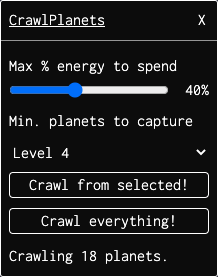
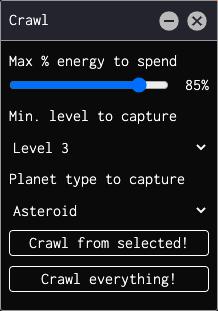
feat: Add planet types to CrawlPlanets

diff --git a/content/productivity/crawl-planets/plugin.js b/content/productivity/crawl-planets/plugin.js
@@ -1,9 +1,22 @@
-import {
-  move
-} from 'https://plugins.zkga.me/utils/queued-move.js';
+const planetTypes = {
+  'Planet': 0,
+  'Asteroid': 1,
+  'Foundry': 2,
+  'Spacetime Rip': 3,
+  'Quasar': 4,
+};
+
+const planetLevels = [0, 1, 2, 3, 4, 5, 6, 7, 8, 9];
+
+const players = [
+  "0x0000000000000000000000000000000000000000",
+];
+
+const typeNames = Object.keys(planetTypes);
 
 class Plugin {
   constructor() {
+    this.planetType = 1;
     this.minPlanetLevel = 3;
     this.maxEnergyPercent = 85;
   }
@@ -37,7 +50,7 @@ class Plugin {
     }
 
     let levelLabel = document.createElement('label');
-    levelLabel.innerText = 'Min. planets to capture';
+    levelLabel.innerText = 'Min. level to capture';
     levelLabel.style.display = 'block';
 
     let level = document.createElement('select');
@@ -45,7 +58,7 @@ class Plugin {
     level.style.width = '100%';
     level.style.marginTop = '10px';
     level.style.marginBottom = '10px';
-    [0, 1, 2, 3, 4, 5, 6, 7].forEach(lvl => {
+    planetLevels.forEach(lvl => {
       let opt = document.createElement('option');
       opt.value = `${lvl}`;
       opt.innerText = `Level ${lvl}`;
@@ -55,9 +68,34 @@ class Plugin {
 
     level.onchange = (evt) => {
       try {
-        this.minPlanetLevel = parseInt(evt.target.value);
+        this.minPlanetLevel = parseInt(evt.target.value, 10);
       } catch (e) {
         console.error('could not parse planet level', e);
+      }
+    }
+
+    let planetTypeLabel = document.createElement('label');
+    planetTypeLabel.innerText = 'Planet type to capture';
+    planetTypeLabel.style.display = 'block';
+
+    let planetType = document.createElement('select');
+    planetType.style.background = 'rgb(8,8,8)';
+    planetType.style.width = '100%';
+    planetType.style.marginTop = '10px';
+    planetType.style.marginBottom = '10px';
+    Object.entries(planetTypes).forEach(([name, key]) => {
+      let opt = document.createElement('option');
+      opt.value = `${key}`;
+      opt.innerText = `${name}`;
+      planetType.appendChild(opt);
+    });
+    planetType.value = `${this.planetType}`;
+
+    planetType.onchange = (evt) => {
+      try {
+        this.planetType = parseInt(evt.target.value, 10);
+      } catch (e) {
+        console.error('could not parse planet planet type', e);
       }
     }
 
@@ -75,8 +113,9 @@ class Plugin {
           planet.locationId,
           this.minPlanetLevel,
           this.maxEnergyPercent,
+          this.planetType,
         );
-        message.innerText = `Crawling ${moves} planets.`;
+        message.innerText = `Crawling ${moves} ${typeNames[this.planetType]}s.`;
       } else {
         message.innerText = 'No planet selected.';
       }
@@ -96,8 +135,9 @@ class Plugin {
             planet.locationId,
             this.minPlanetLevel,
             this.maxEnergyPercent,
+            this.planetType,
           );
-          message.innerText = `Crawling ${moves} planets.`;
+          message.innerText = `Crawling ${moves} ${typeNames[this.planetType]}s.`;
         }, 0);
       }
     }
@@ -107,6 +147,8 @@ class Plugin {
     container.appendChild(percent);
     container.appendChild(levelLabel);
     container.appendChild(level);
+    container.appendChild(planetTypeLabel);
+    container.appendChild(planetType);
     container.appendChild(button);
     container.appendChild(globalButton);
     container.appendChild(message);
@@ -116,7 +158,7 @@ class Plugin {
 export default Plugin;
 
 
-function capturePlanets(fromId, minCaptureLevel, maxDistributeEnergyPercent) {
+function capturePlanets(fromId, minCaptureLevel, maxDistributeEnergyPercent, planetType) {
   const planet = df.getPlanetWithId(fromId);
   const from = df.getPlanetWithId(fromId);
 
@@ -129,8 +171,9 @@ function capturePlanets(fromId, minCaptureLevel, maxDistributeEnergyPercent) {
   const candidates_ = df.getPlanetsInRange(fromId, maxDistributeEnergyPercent)
     .filter(p => (
       p.owner !== df.account &&
-      p.owner === "0x0000000000000000000000000000000000000000" &&
-      p.planetLevel >= minCaptureLevel
+      players.includes(p.owner) &&
+      p.planetLevel >= minCaptureLevel &&
+      p.planetType === planetType
     ))
     .map(to => {
       return [to, distance(from, to)]
@@ -168,7 +211,7 @@ function capturePlanets(fromId, minCaptureLevel, maxDistributeEnergyPercent) {
       continue;
     }
 
-    move(fromId, candidate.locationId, energyNeeded, 0);
+    df.move(fromId, candidate.locationId, energyNeeded, 0);
     energySpent += energyNeeded;
     moves += 1;
   }
